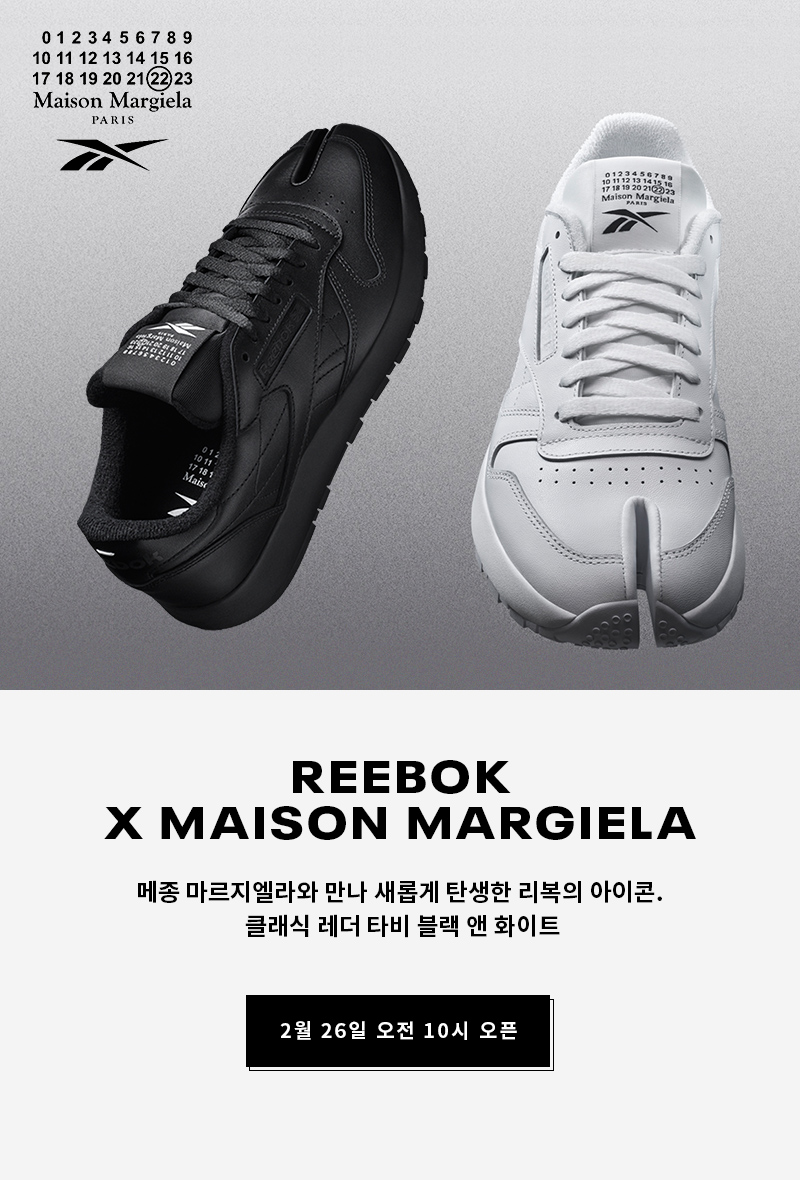
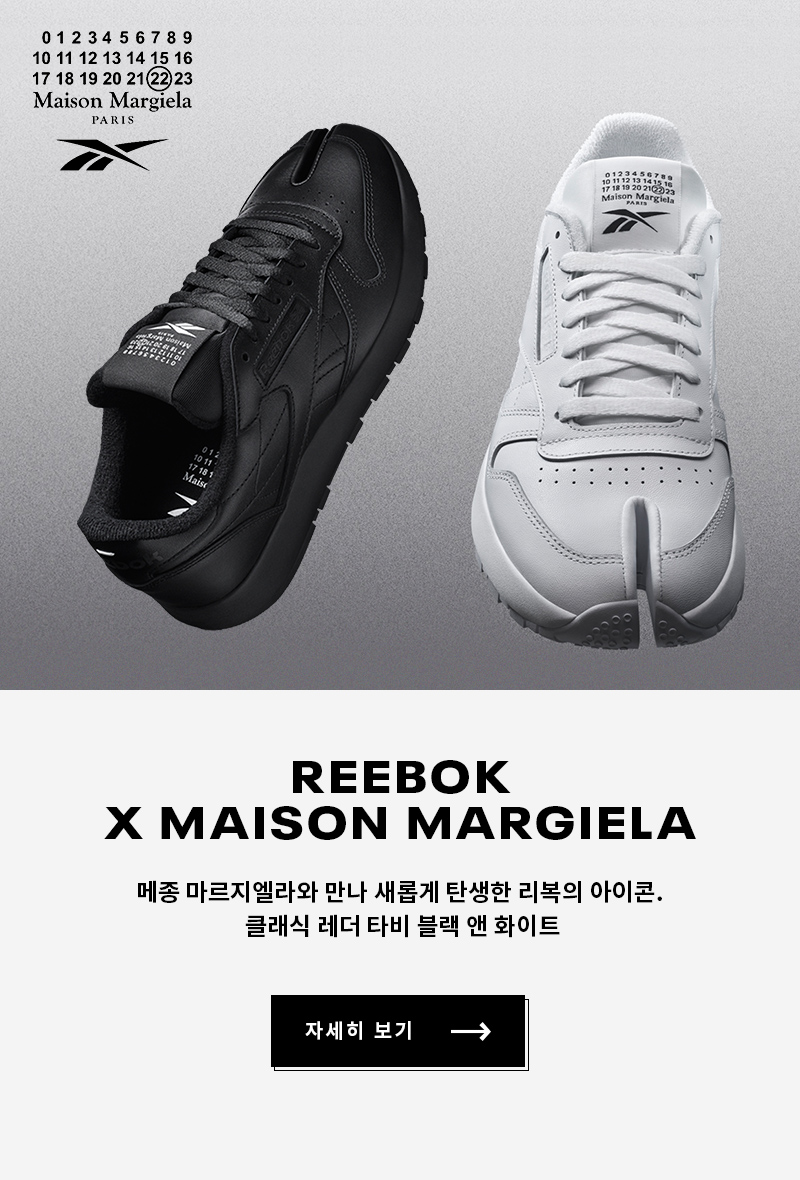
ree_cp_hype 메종마르지엘라 오픈

Changed region(s): [[0.2812, 0.8237, 0.6875, 0.9153]]

diff --git a/mobile/html/reebok/pn/hype.html b/mobile/html/reebok/pn/hype.html
@@ -12,16 +12,17 @@
 						<div class="contents">
 							<div class="box prod33">
 								<img src="/images/reebok/2021/event/runstatement/0223_Margiela_MO_close.jpg" alt="" class="menu">
-								<a href="javascript:void(0)" class="conts" campaign-label="자세히보기">
-										<img src="/images/reebok/2021/event/runstatement/0223_Margiela_MO.jpg" alt="">
+								<a href="https://m.reebok.co.kr/MO/Promotion/landingPage.action?pageNo=1402" class="conts" campaign-label="자세히보기">
+									<img src="/images/reebok/2021/event/runstatement/0223_Margiela_MO.jpg" alt="">
+									<!-- <img src="/images/reebok/2021/event/runstatement/0226_Margiela_MO_SOLD-OUT.jpg" alt=""> -->
 								</a>
 								<div class="btn">
 									<img src="/images/reebok/2020/event/runstatement/2007_r_runstatement_down_MO.jpg" alt="">
 								</div>
 								<style>
-										.box.prod33 .btn::before {
-												background: #646168;
-										}
+									.box.prod33 .btn::before {
+											background: #646168;
+									}
 								</style>
 							</div>
 							<div class="box prod32">

diff --git a/mobile/html/reebok/2021/event/runstatement/build/index.html b/mobile/html/reebok/2021/event/runstatement/build/index.html
@@ -54,16 +54,17 @@
 					<div class="contents">
 						<div class="box prod33">
 							<img src="/images/reebok/2021/event/runstatement/0223_Margiela_MO_close.jpg" alt="" class="menu">
-							<a href="javascript:void(0)" class="conts" campaign-label="자세히보기">
-									<img src="/images/reebok/2021/event/runstatement/0223_Margiela_MO.jpg" alt="">
+							<a href="https://m.reebok.co.kr/MO/Promotion/landingPage.action?pageNo=1402" class="conts" campaign-label="자세히보기">
+								<img src="/images/reebok/2021/event/runstatement/0223_Margiela_MO.jpg" alt="">
+								<!-- <img src="/images/reebok/2021/event/runstatement/0226_Margiela_MO_SOLD-OUT.jpg" alt=""> -->
 							</a>
 							<div class="btn">
 								<img src="/images/reebok/2020/event/runstatement/2007_r_runstatement_down_MO.jpg" alt="">
 							</div>
 							<style>
-									.box.prod33 .btn::before {
-											background: #646168;
-									}
+								.box.prod33 .btn::before {
+										background: #646168;
+								}
 							</style>
 						</div>
 						<div class="box prod32">

diff --git a/mobile/html/reebok/2021/event/runstatement/index.html b/mobile/html/reebok/2021/event/runstatement/index.html
@@ -52,16 +52,17 @@
 					<div class="contents">
 						<div class="box prod33">
 							<img src="/images/reebok/2021/event/runstatement/0223_Margiela_MO_close.jpg" alt="" class="menu">
-							<a href="javascript:void(0)" class="conts" campaign-label="자세히보기">
-									<img src="/images/reebok/2021/event/runstatement/0223_Margiela_MO.jpg" alt="">
+							<a href="https://m.reebok.co.kr/MO/Promotion/landingPage.action?pageNo=1402" class="conts" campaign-label="자세히보기">
+								<img src="/images/reebok/2021/event/runstatement/0223_Margiela_MO.jpg" alt="">
+								<!-- <img src="/images/reebok/2021/event/runstatement/0226_Margiela_MO_SOLD-OUT.jpg" alt=""> -->
 							</a>
 							<div class="btn">
 								<img src="/images/reebok/2020/event/runstatement/2007_r_runstatement_down_MO.jpg" alt="">
 							</div>
 							<style>
-									.box.prod33 .btn::before {
-											background: #646168;
-									}
+								.box.prod33 .btn::before {
+										background: #646168;
+								}
 							</style>
 						</div>
 						<div class="box prod32">
